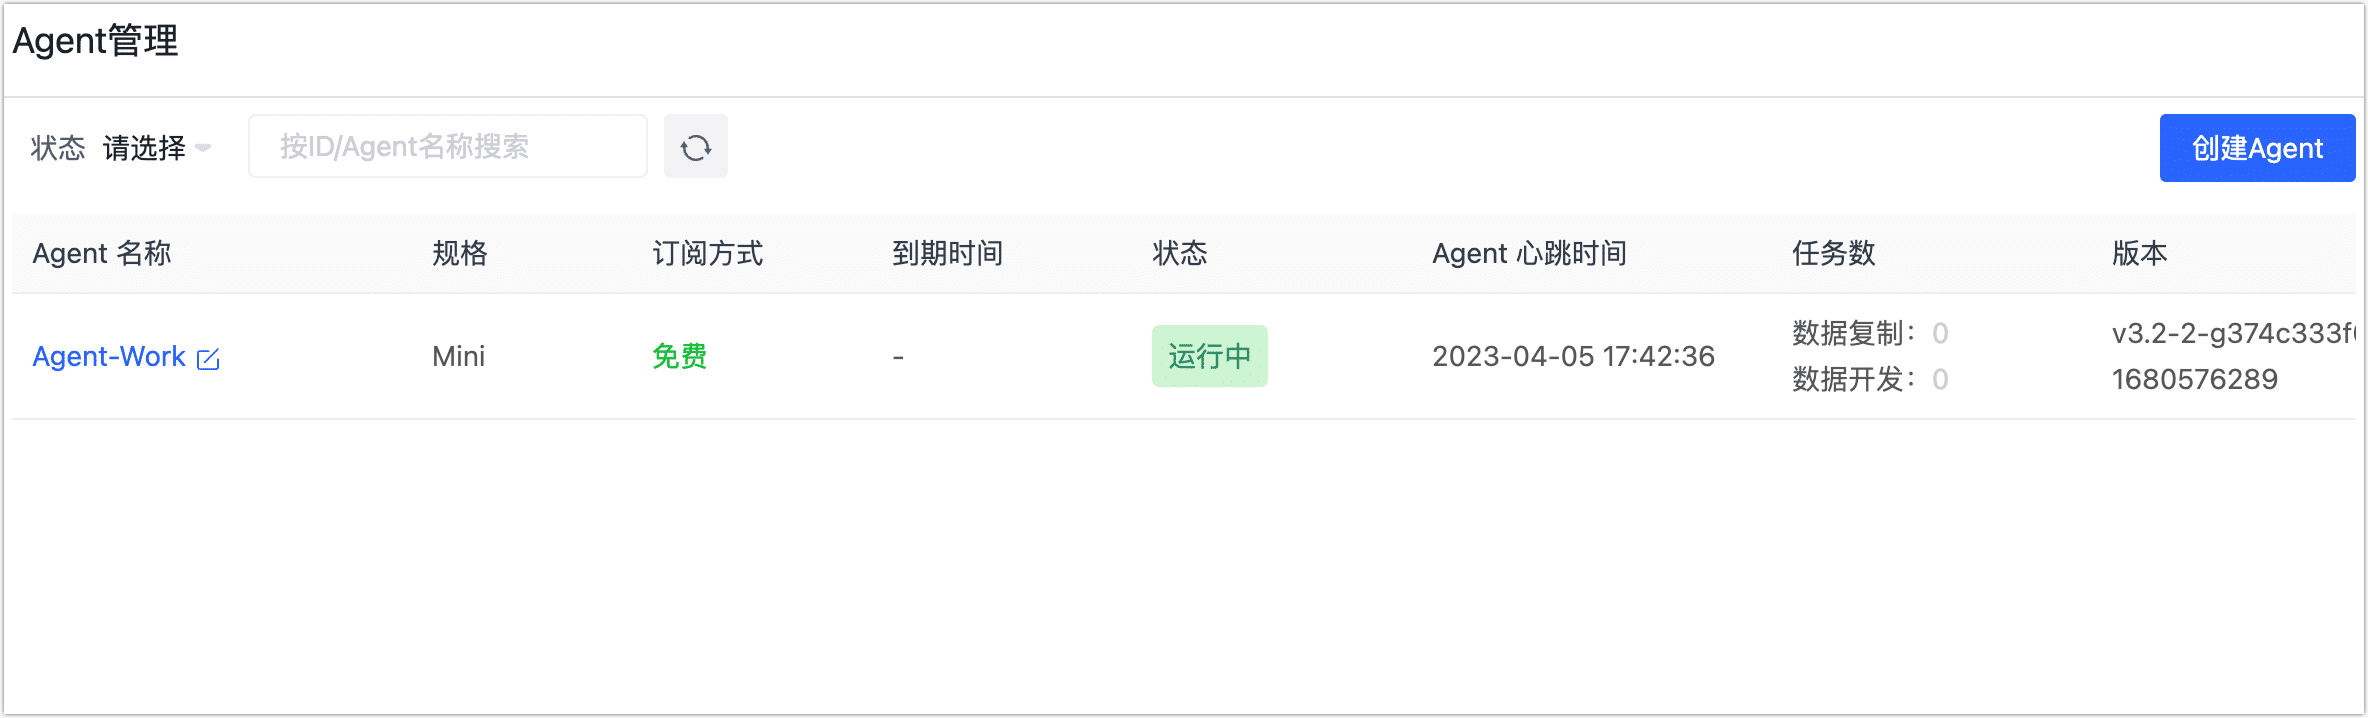
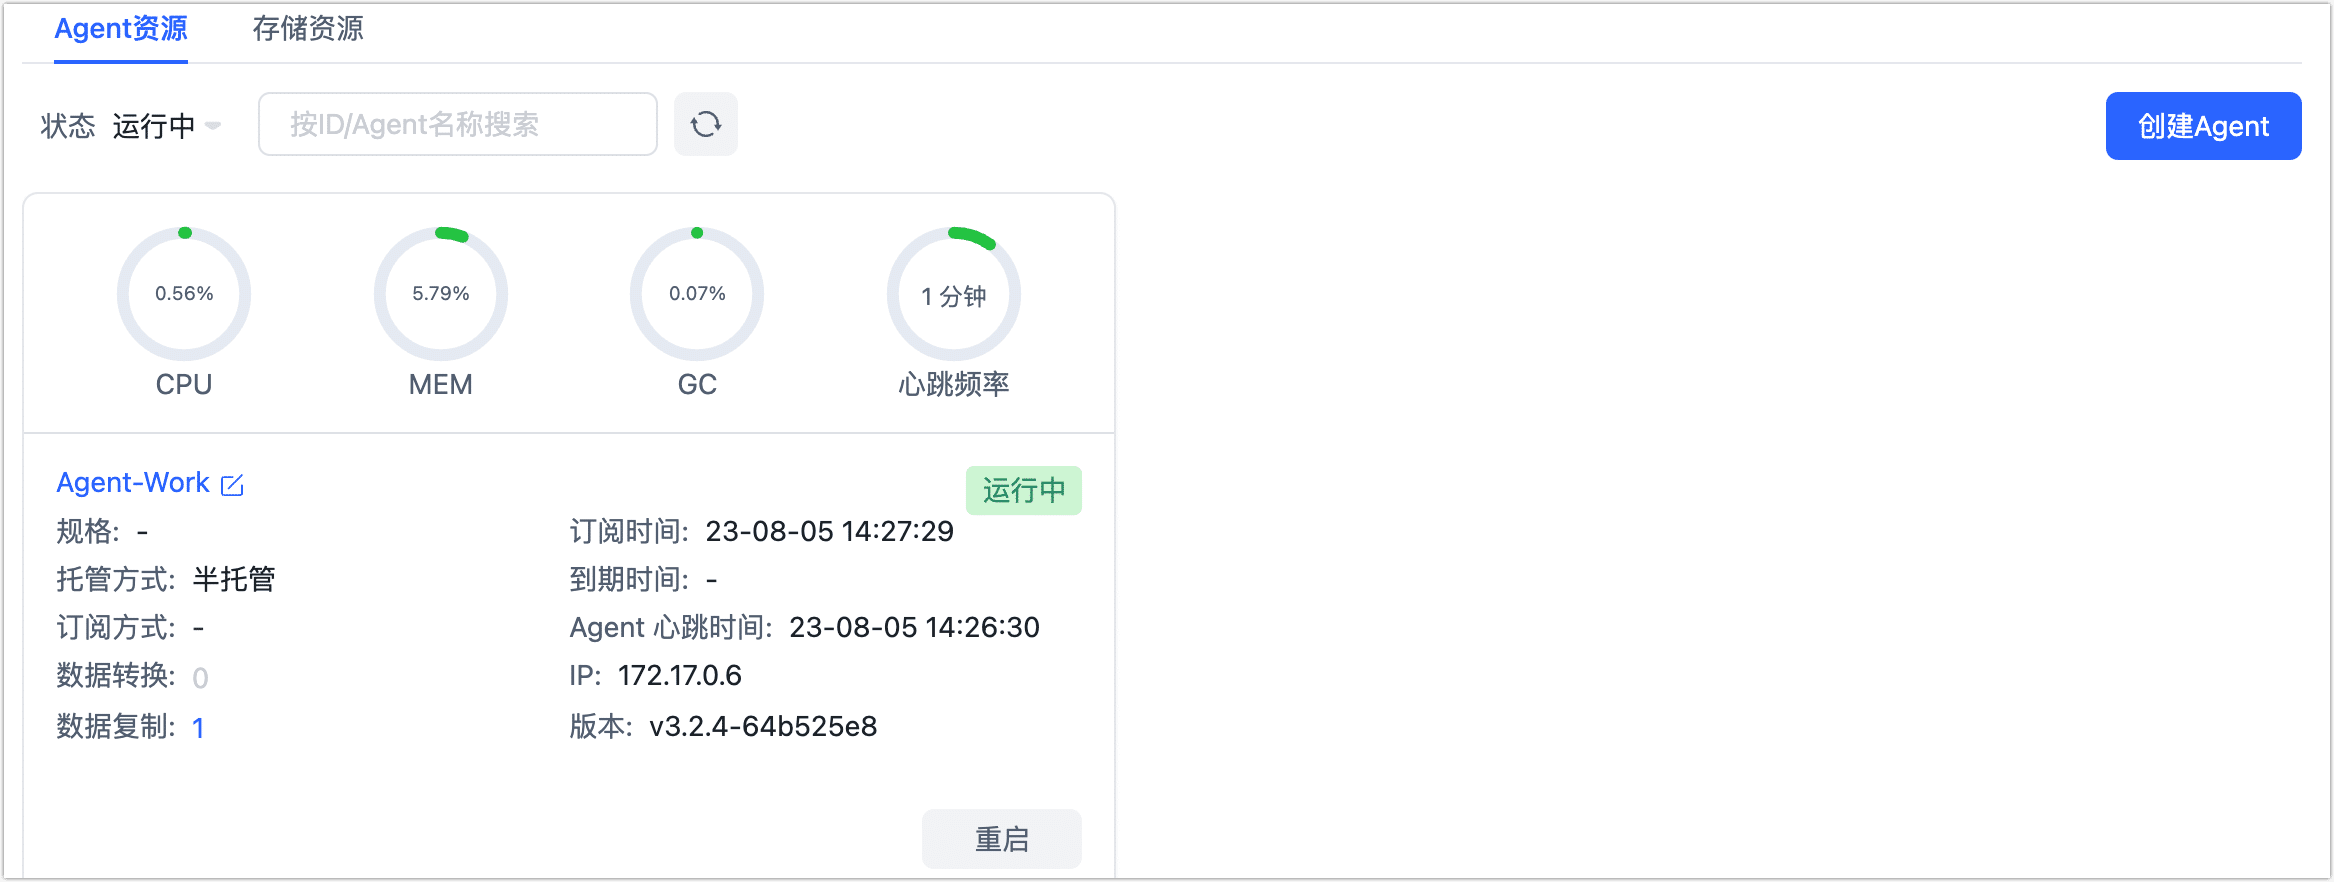
Update Agent Management

diff --git a/docs/cloud/billing/purchase.md b/docs/cloud/billing/purchase.md
@@ -6,7 +6,7 @@
 
 1. 登录 [Tapdata Cloud 平台](https://cloud.tapdata.net/console/v3/)。
 
-2. 在左侧导航栏，单击 **Agent 管理**。
+2. 在左侧导航栏，单击**资源管理**。
 
    当前我们已经创建了一个免费的 Agent 实例（半托管模式），现在我们需要订阅更多的 Agent 实例以满足业务对性能需求。
 
@@ -47,11 +47,10 @@
 7. 在跳转到的支付页面，根据页面指引完成支付流程，支持信用卡支付，完成支付后可下载支付凭证信息。
 
 8. 支付成功后，页面将自动跳转回 Tapdata Cloud 平台，可查看到您购买的 Agent 实例处于**待部署**状态。
-
-   ![订阅成功](../images/purchase_success.png)
    :::tip
    如您选择的是**全托管模式**，Agent 将自动完成部署；如您选择的是**半托管模式**，您需要手动在您的设备上[部署 Agent](../quick-start/install-agent/README.md)。
    :::
+   
 
 
 

diff --git a/docs/cloud/billing/refund.md b/docs/cloud/billing/refund.md
@@ -6,7 +6,7 @@
 
 1. 登录 [Tapdata Cloud 平台](https://cloud.tapdata.net/console/v3/)。
 
-2. 在左侧导航栏，单击 **Agent 管理**。
+2. 在左侧导航栏，单击**资源管理**。
 
 3. 确认 Agent 没有关联运行中的任务。
 
@@ -18,7 +18,7 @@
 
    3. 在跳转到的任务列表页面，停止相关任务。
 
-4. 返回至 **Agent 管理**页面，找到目标 Agent，单击其右侧的**停止**。
+4. 返回至**资源管理**页面，找到目标 Agent，单击**停止**。
 
 5. 等待 Agent 停止后，单击**退订**。
 

diff --git a/docs/cloud/faq/support.md b/docs/cloud/faq/support.md
@@ -38,7 +38,7 @@
 
 * **部门**：选择 **Tapdata 技术支持**。
 * **产品名称**：选择 **Tapdata 云版**。
-* **版本号**：在 Agent 管理页面可以获得。
+* **版本号**：在**资源管理**页面可以获得。
 * **支持分类**：根据您的问题类型选择，如选择**用户使用问题**。
 * **主题**：一句话描述您所遇到的问题，便于识别定位。
 * **描述**：填写您遇到的问题，推荐包含下述信息：
